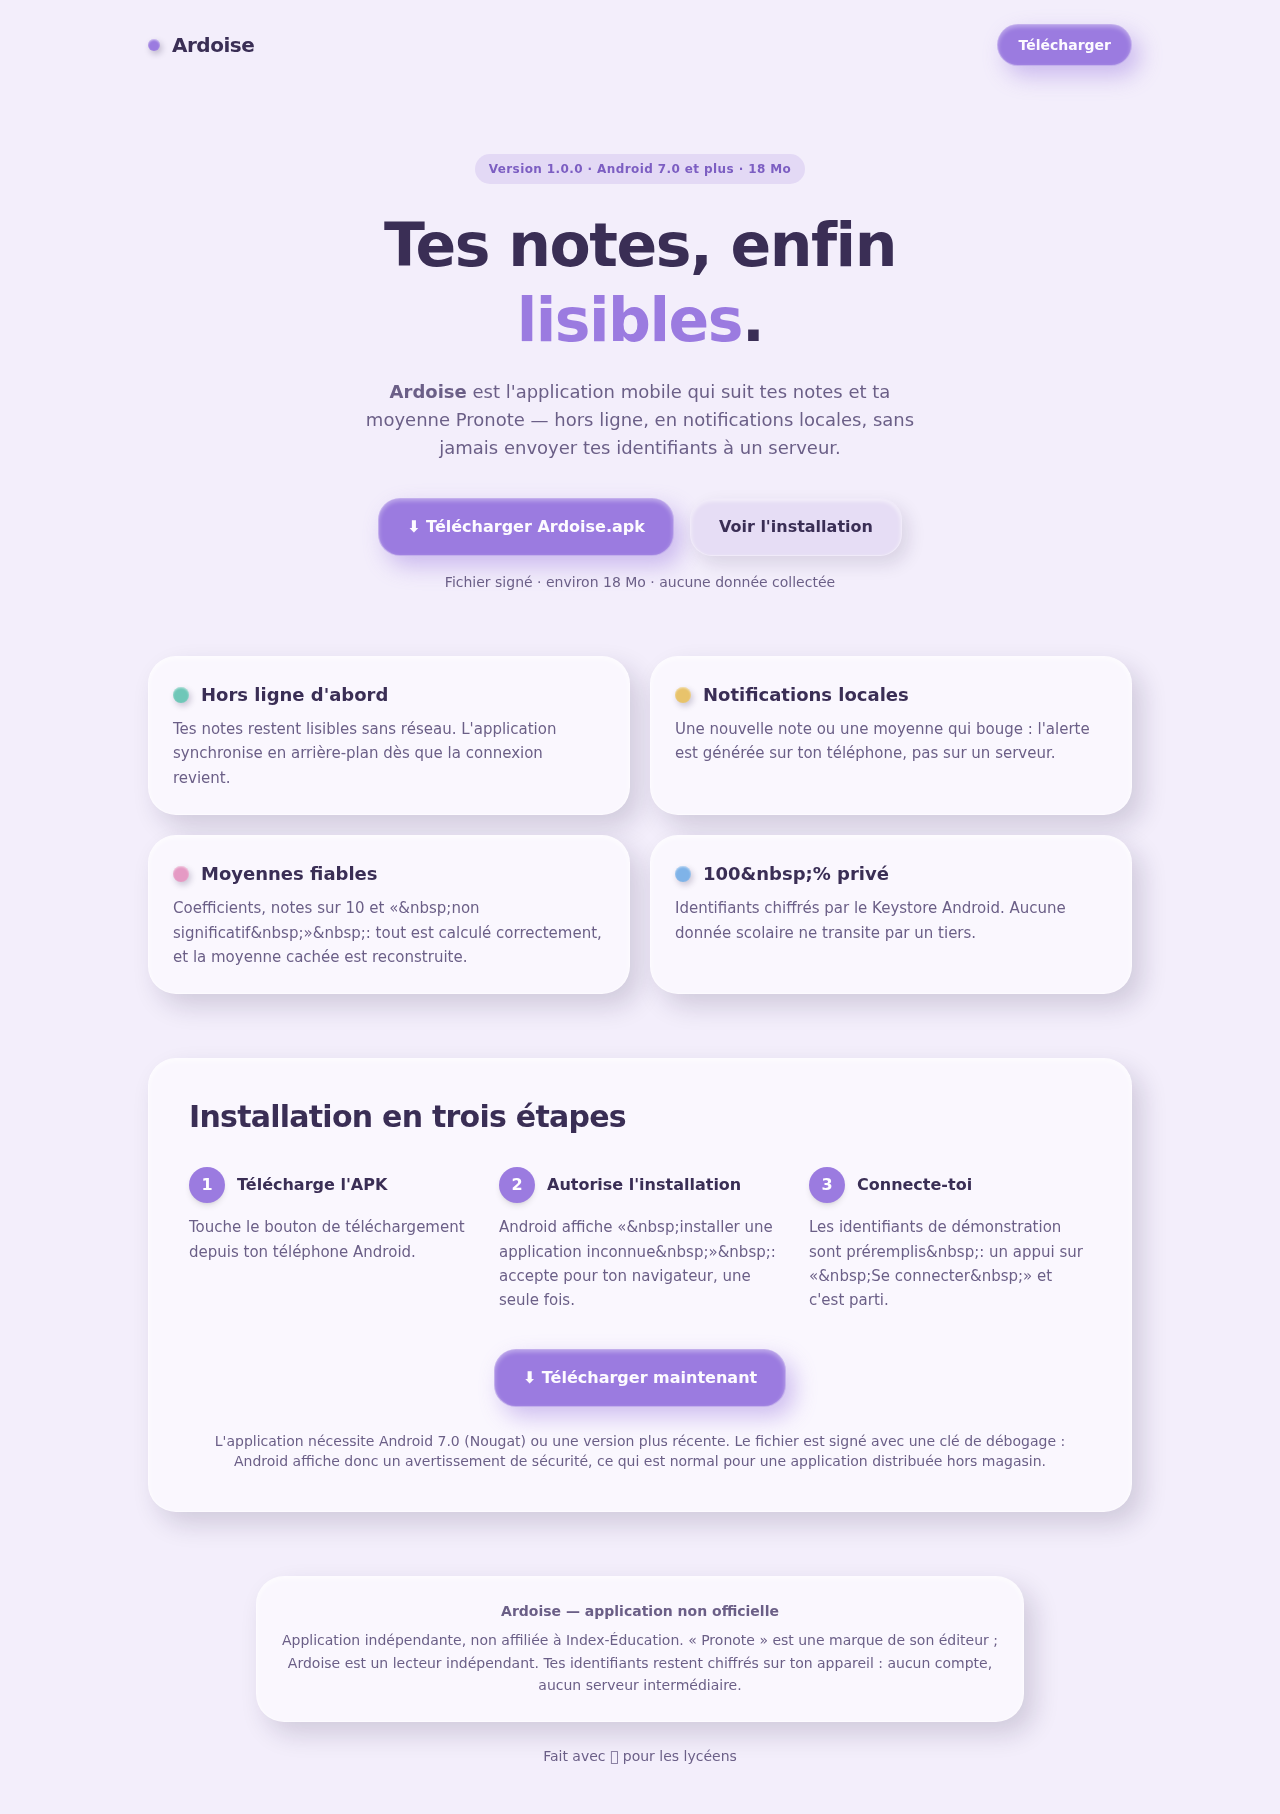
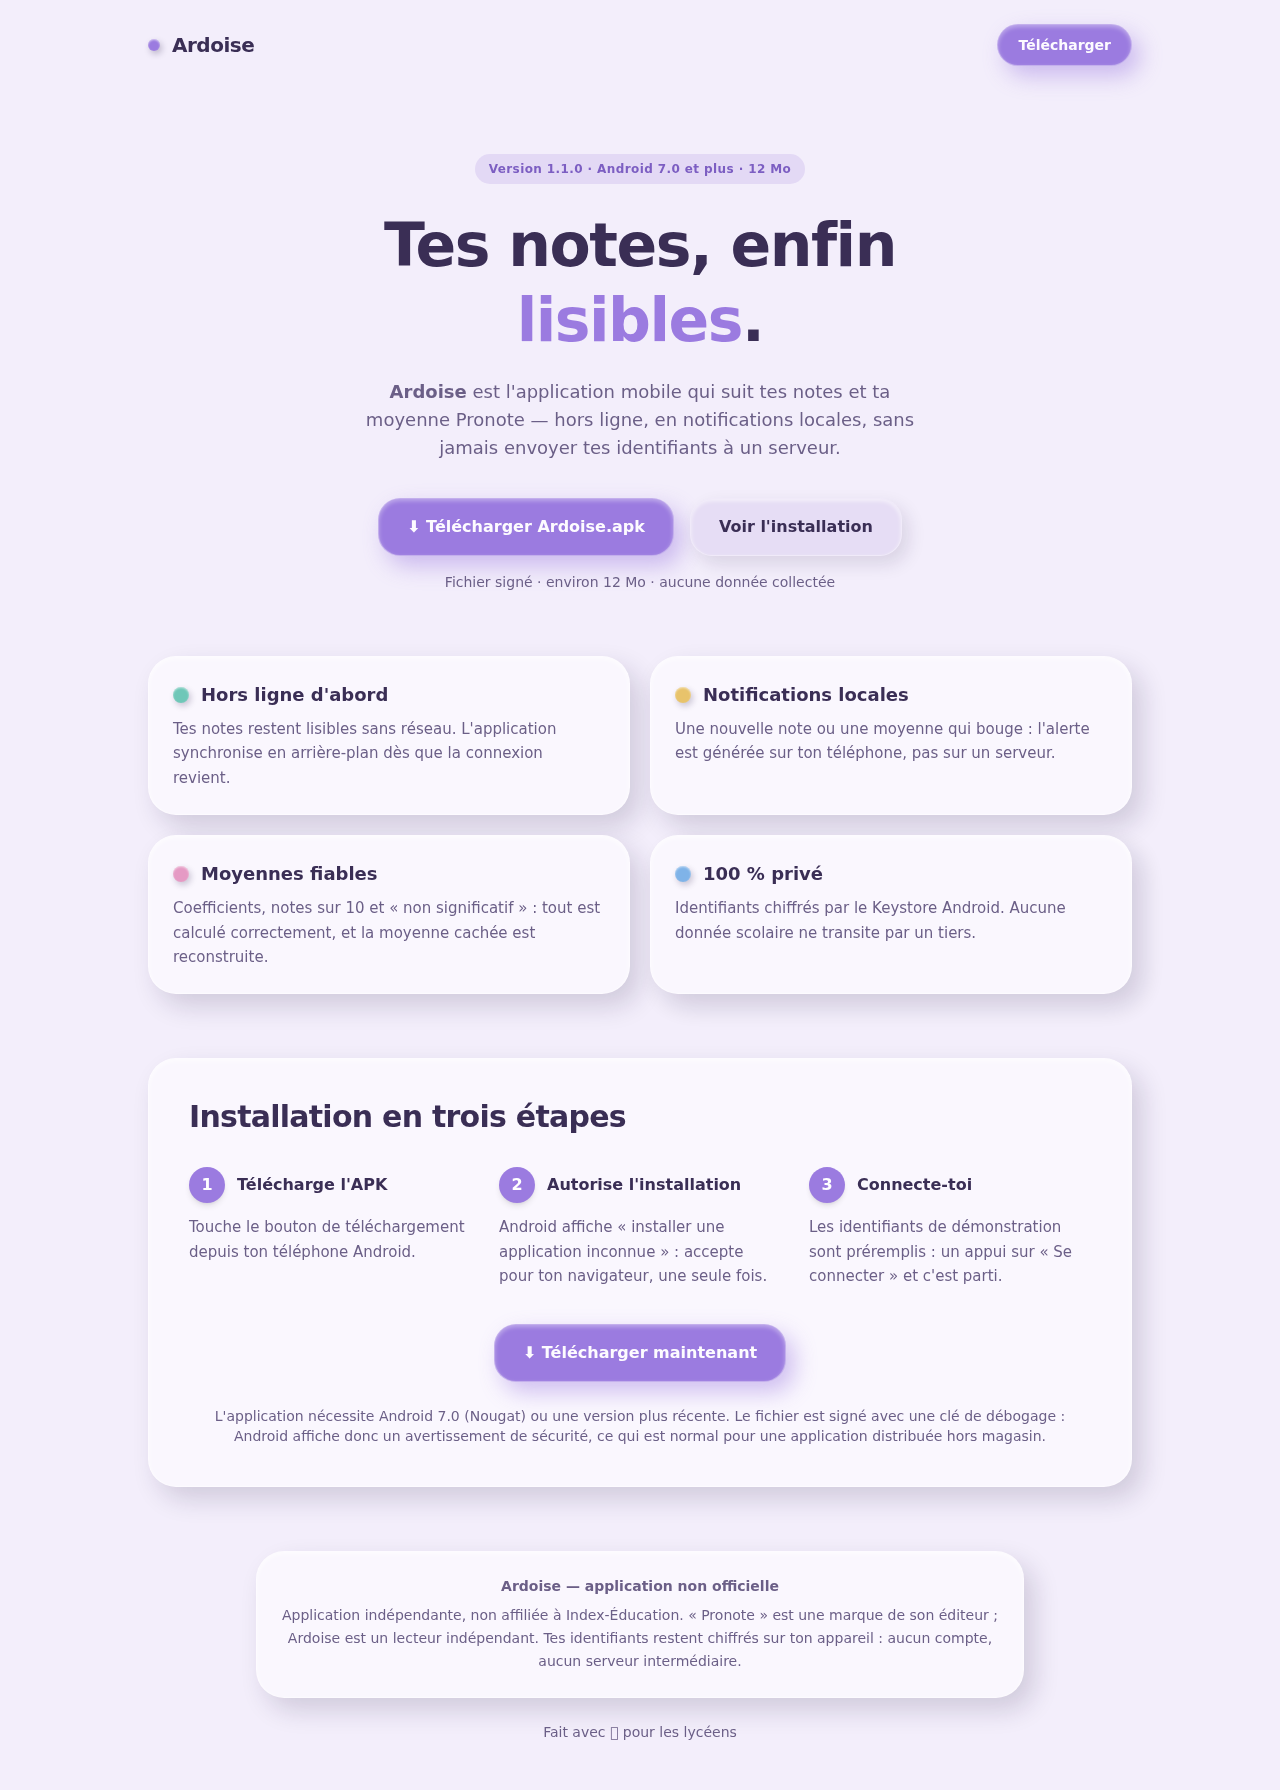
Production deployment preparation for Clay Pronote

diff --git a/src/App.tsx b/src/App.tsx
@@ -19,11 +19,11 @@ const features = [
   },
   {
     title: "Moyennes fiables",
-    body: "Coefficients, notes sur 10 et «&nbsp;non significatif&nbsp;»&nbsp;: tout est calculé correctement, et la moyenne cachée est reconstruite.",
+    body: "Coefficients, notes sur 10 et « non significatif » : tout est calculé correctement, et la moyenne cachée est reconstruite.",
     color: "#e59ac4",
   },
   {
-    title: "100&nbsp;% privé",
+    title: "100 % privé",
     body: "Identifiants chiffrés par le Keystore Android. Aucune donnée scolaire ne transite par un tiers.",
     color: "#7fb3e8",
   },
@@ -38,12 +38,12 @@ const steps = [
   {
     n: "2",
     title: "Autorise l'installation",
-    body: "Android affiche «&nbsp;installer une application inconnue&nbsp;»&nbsp;: accepte pour ton navigateur, une seule fois.",
+    body: "Android affiche « installer une application inconnue » : accepte pour ton navigateur, une seule fois.",
   },
   {
     n: "3",
     title: "Connecte-toi",
-    body: "Les identifiants de démonstration sont préremplis&nbsp;: un appui sur «&nbsp;Se connecter&nbsp;» et c'est parti.",
+    body: "Les identifiants de démonstration sont préremplis : un appui sur « Se connecter » et c'est parti.",
   },
 ];
 
@@ -73,7 +73,7 @@ export default function App() {
         className="reveal mx-auto max-w-5xl px-5 pt-10 pb-16 text-center sm:pt-16"
         style={delay(80)}
       >
-        <span className="clay-chip">Version 1.0.0 · Android 7.0 et plus · 18 Mo</span>
+        <span className="clay-chip">Version 1.1.0 · Android 7.0 et plus · 12 Mo</span>
         <h1 className="mx-auto mt-6 max-w-2xl text-4xl font-black leading-tight tracking-tight sm:text-6xl">
           Tes notes, enfin{" "}
           <span className="text-[#9b7be0]">lisibles</span>.
@@ -97,7 +97,7 @@ export default function App() {
           </a>
         </div>
         <p className="mt-4 text-sm text-[#6b5f87]">
-          Fichier signé · environ 18 Mo · aucune donnée collectée
+          Fichier signé · environ 12 Mo · aucune donnée collectée
         </p>
       </section>
 
@@ -176,8 +176,8 @@ export default function App() {
         <div className="clay-card mx-auto max-w-3xl p-6">
           <p className="font-semibold">Ardoise — application non officielle</p>
           <p className="mt-2 leading-relaxed">
-            Application indépendante, non affiliée à Index-Éducation. «&nbsp;Pronote&nbsp;»
-            est une marque de son éditeur&nbsp;; Ardoise est un lecteur indépendant.
+            Application indépendante, non affiliée à Index-Éducation. « Pronote »
+            est une marque de son éditeur ; Ardoise est un lecteur indépendant.
             Tes identifiants restent chiffrés sur ton appareil : aucun compte,
             aucun serveur intermédiaire.
           </p>

diff --git a/android/app/src/test/java/com/pronote/clay/MainActivitySmokeTest.kt b/android/app/src/test/java/com/pronote/clay/MainActivitySmokeTest.kt
@@ -2,6 +2,8 @@ package com.pronote.clay
 
 import androidx.compose.ui.test.junit4.createAndroidComposeRule
 import androidx.compose.ui.test.onNodeWithText
+import androidx.compose.ui.test.onAllNodesWithText
+import androidx.compose.ui.test.performClick
 import androidx.test.ext.junit.runners.AndroidJUnit4
 import org.junit.Rule
 import org.junit.Test
@@ -46,6 +48,23 @@ class MainActivitySmokeTest {
         // The password field is masked by PasswordVisualTransformation, so its
         // value is never exposed in the semantics tree: assert the field label.
         composeRule.onNodeWithText("Mot de passe").assertExists()
+    }
+
+    @Test
+    fun `demo sign in reaches the dashboard and shows its safe top bar`() {
+        composeRule.onNodeWithText("Se connecter").performClick()
+        var dashboardVisible = false
+        repeat(100) {
+            composeRule.waitForIdle()
+            dashboardVisible = composeRule
+                .onAllNodesWithText("Bonjour Alex")
+                .fetchSemanticsNodes()
+                .isNotEmpty()
+            if (!dashboardVisible) Thread.sleep(50)
+        }
+        assert(dashboardVisible) { "La connexion de démonstration n'a pas affiché le tableau de bord." }
+        composeRule.onNodeWithText("Réglages").assertExists()
+        composeRule.onNodeWithText("Matières").assertExists()
     }
 
     @Test

diff --git a/android/app/src/main/java/com/pronote/clay/ui/screens/HomeScreen.kt b/android/app/src/main/java/com/pronote/clay/ui/screens/HomeScreen.kt
@@ -17,6 +17,7 @@ import androidx.compose.foundation.layout.fillMaxWidth
 import androidx.compose.foundation.layout.height
 import androidx.compose.foundation.layout.padding
 import androidx.compose.foundation.layout.size
+import androidx.compose.foundation.layout.safeDrawingPadding
 import androidx.compose.foundation.layout.width
 import androidx.compose.foundation.lazy.LazyColumn
 import androidx.compose.foundation.lazy.items
@@ -92,7 +93,9 @@ fun HomeScreen(viewModel: HomeViewModel) {
     }
 
     LazyColumn(
-        modifier = Modifier.fillMaxSize(),
+        // The Activity draws edge-to-edge; keep the dashboard inside the
+        // status-bar/display-cutout and navigation-bar safe areas.
+        modifier = Modifier.fillMaxSize().safeDrawingPadding(),
         contentPadding = PaddingValues(
             start = ClayDimens.ScreenPadding,
             end = ClayDimens.ScreenPadding,

diff --git a/android/app/src/main/java/com/pronote/clay/ui/screens/LoginScreen.kt b/android/app/src/main/java/com/pronote/clay/ui/screens/LoginScreen.kt
@@ -11,7 +11,7 @@ import androidx.compose.foundation.layout.height
 import androidx.compose.foundation.layout.imePadding
 import androidx.compose.foundation.layout.padding
 import androidx.compose.foundation.layout.size
-import androidx.compose.foundation.layout.systemBarsPadding
+import androidx.compose.foundation.layout.safeDrawingPadding
 import androidx.compose.foundation.rememberScrollState
 import androidx.compose.foundation.text.KeyboardOptions
 import androidx.compose.foundation.verticalScroll
@@ -70,7 +70,7 @@ fun LoginScreen(viewModel: HomeViewModel) {
     Column(
         modifier = Modifier
             .fillMaxSize()
-            .systemBarsPadding()
+            .safeDrawingPadding()
             .verticalScroll(rememberScrollState())
             .imePadding()
             .padding(horizontal = ClayDimens.ScreenPadding),

diff --git a/src/apk-download.test.ts b/src/apk-download.test.ts
@@ -50,6 +50,12 @@ describe("APK Ardoise téléchargeable depuis le site", () => {
     expect(md5(legacyCopy)).toBe(md5(APK_PATH));
   });
 
+  it("ne contient aucune entité HTML brute visible dans du texte JSX", () => {
+    const app = readFileSync(join(ROOT, "src", "App.tsx"), "utf8");
+    expect(app).not.toContain("&nbsp;");
+    expect(app).not.toContain("&amp;");
+  });
+
   it("est lié au téléchargement depuis la page d'accueil", () => {
     const app = readFileSync(join(ROOT, "src", "App.tsx"), "utf8");
     expect(app).toContain('"/Ardoise.apk"');
